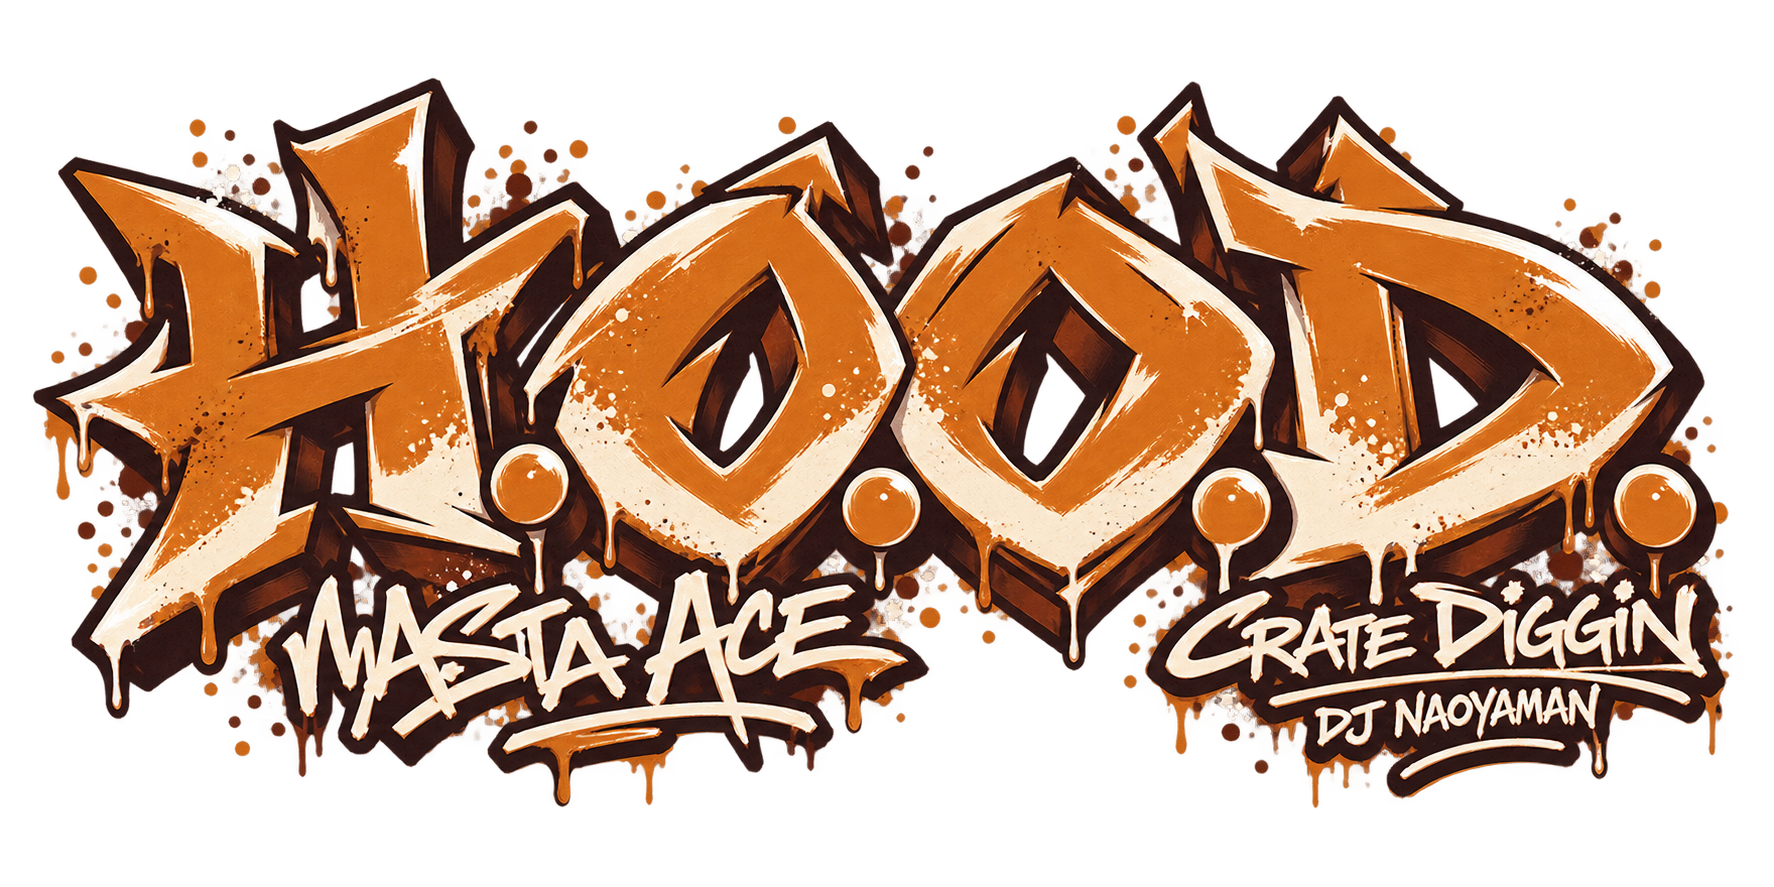
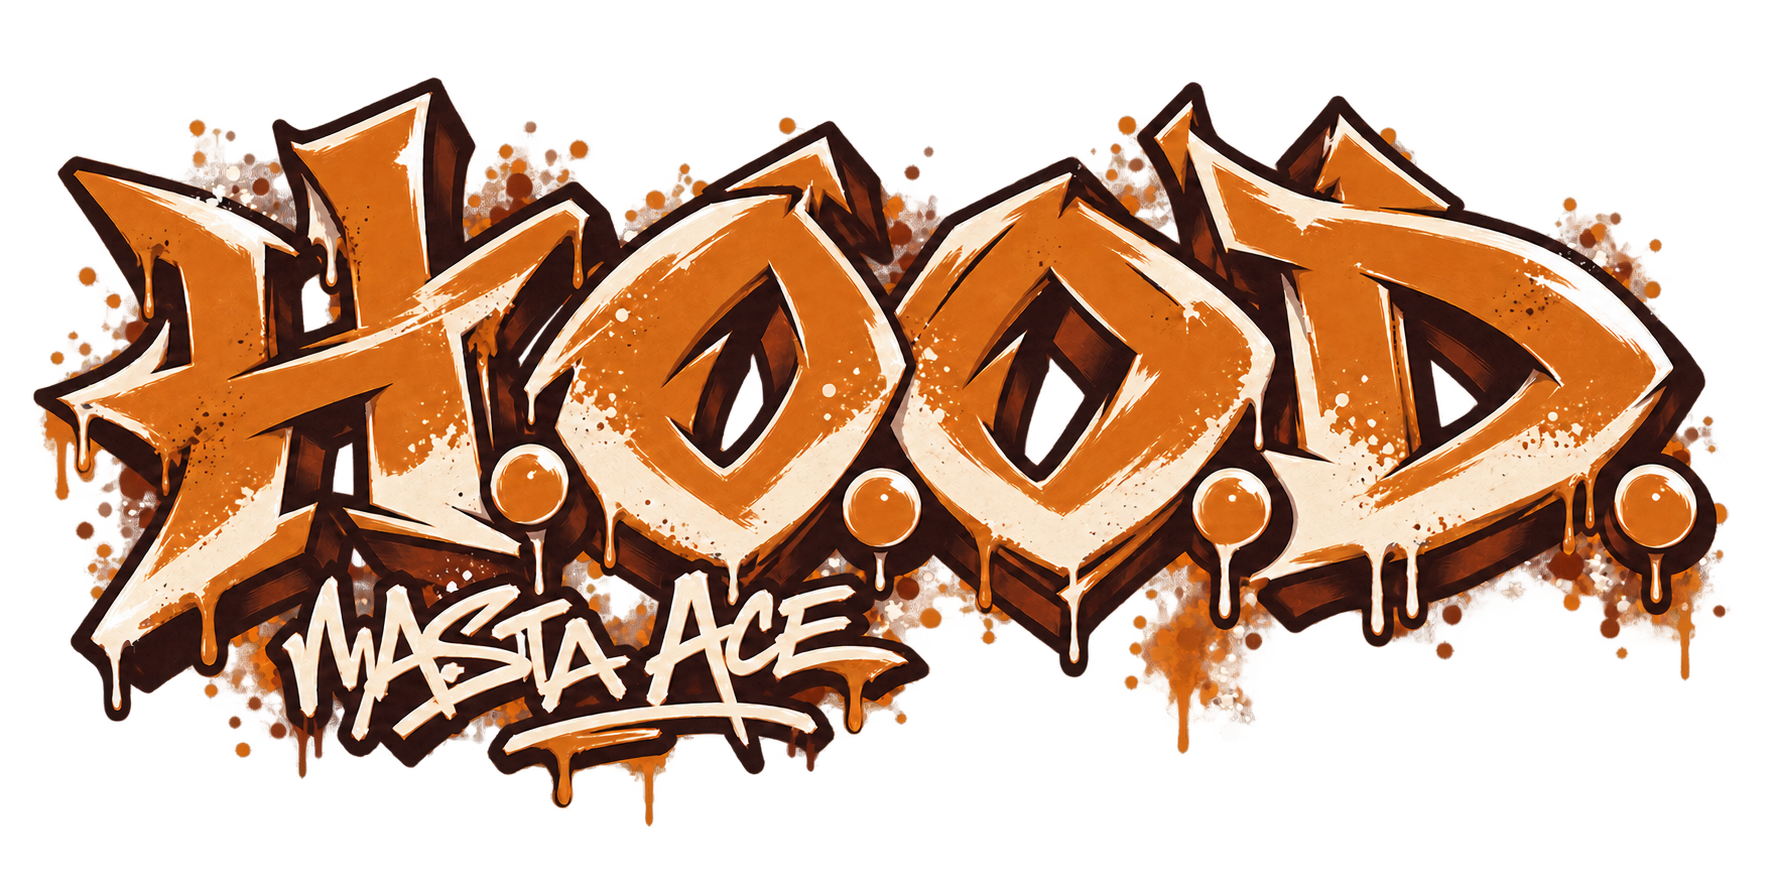
Remove embedded site signature from Masta Ace H.O.O.D. artwork

diff --git a/scripts/verify_masta_ace_art_cleanup.py b/scripts/verify_masta_ace_art_cleanup.py
@@ -1,0 +1,22 @@
+from pathlib import Path
+import hashlib,json,sys
+from PIL import Image
+from approved_masta_ace_art_cleanup import F,historical_masta_ace_art_cleanup_file
+R=Path(__file__).resolve().parents[1];sha=lambda b:hashlib.sha256(b).hexdigest()
+for p,h in F['protected'].items():assert sha((R/p).read_bytes())==h,p
+p=R/F['asset'];assert sha(p.read_bytes())==F['afterAssetSHA256'];assert F['beforeAssetSHA256']!=F['afterAssetSHA256']
+with Image.open(p) as im:
+ im.load();assert im.mode=='RGBA' and list(im.size)==F['dimensions'] and max(im.size)<=2400
+ assert sha(im.tobytes())==F['rgbaSHA256'];assert im.getchannel('A').getextrema()[0]==0
+ assert sum(1 for r,g,b,a in im.getdata() if min(r,g,b)>225 and a>240)>1000,'White paint lost'
+raw=(R/'releases.json').read_bytes();historical_masta_ace_art_cleanup_file('releases.json',raw)
+try:historical_masta_ace_art_cleanup_file('releases.json',raw+b' ')
+except AssertionError:pass
+else:raise AssertionError('Unapproved drift accepted')
+assert historical_masta_ace_art_cleanup_file('unrelated',b'unchanged')==b'unchanged'
+notes=(R/'ARTWORK_NOTES.md').read_text();assert 'プロンプトに明示' in notes and 'ビットマップには' in notes
+if '--source-only' not in sys.argv:
+ D=R/'dist';html=(D/'tracks'/(F['id']+'.html')).read_text();assert F['asset'] in html and 'DJ Naoyaman' in html and 'Original graffiti' in html
+ with Image.open(D/F['asset']) as im:im.load();assert im.mode=='RGBA' and im.getchannel('A').getextrema()[0]==0
+ with Image.open(D/'og'/(F['id']+'.jpg')) as im:im.load();assert im.size==(1200,630)
+print('Masta Ace image-only replacement, white paint/transparency, unchanged507 records and external credit PASS; lettering/removal visually reviewed')

diff --git a/scripts/approved_masta_ace_art_cleanup.py b/scripts/approved_masta_ace_art_cleanup.py
@@ -1,0 +1,10 @@
+"""Only the release version is normalized; approved image is checked separately."""
+from pathlib import Path
+import json,hashlib
+R=Path(__file__).resolve().parents[1]
+F=json.loads((R/'scripts/fixtures/approved-masta-ace-art-cleanup.json').read_text())
+def historical_masta_ace_art_cleanup_file(path,data):
+ if path!='releases.json':return data
+ assert hashlib.sha256(data).hexdigest()==F['afterReleaseSHA256'],'Unapproved artwork-release drift'
+ obj=json.loads(data);obj['version']=F['beforeVersion'];before=(json.dumps(obj,ensure_ascii=False,indent=2)+'\n').encode()
+ assert hashlib.sha256(before).hexdigest()==F['beforeReleaseSHA256'];return before

diff --git a/scripts/approved_bear_witness_region.py b/scripts/approved_bear_witness_region.py
@@ -5,6 +5,8 @@ R=Path(__file__).resolve().parents[1]
 F=json.loads((R/'scripts/fixtures/approved-bear-witness-region.json').read_text())
 sha=lambda b:hashlib.sha256(b).hexdigest()
 def historical_bear_witness_region_file(path,data):
+ from approved_masta_ace_art_cleanup import historical_masta_ace_art_cleanup_file
+ data=historical_masta_ace_art_cleanup_file(path,data)
  c=F['files'].get(path)
  if c is None:return data
  assert sha(data)==c['afterSHA256'],'Unapproved Bear Witness drift: '+path

diff --git a/ARTWORK_NOTES.md b/ARTWORK_NOTES.md
@@ -56,3 +56,7 @@ build.pyとart_motion.pyが、掲載済みのmoods・deck・listening・essay先
 - burstは中心から勢いよく広がる描画、1.2〜1.8秒。
 
 手動調整はtracks.jsonのart.motionへmode・duration・variant・noteを記録する。画像と代替描画の両方に適用し、描画後は完成状態で静止する。動きを減らす設定では最初から完成状態を表示する。次回以降の追加曲にも自動適用する。対象曲数はtracks.jsonを正本とし、現在381曲。
+
+## 楽曲画像内のサイト署名を入れない（2026-10-21）
+
+今後生成・編集する楽曲グラフィティのビットマップには、DJ NAOYAMAN、DJ Naoyaman、CRATE DIGGIN'、CRATE DIGGIN’などのサイト名・制作者署名を入れない。プロンプトに明示し、公開前の画像目視でも混入がないことを確認する。曲名・アーティスト名・必要な版名と白い塗料、透過した余白は保持する。サイト外側のデザインクレジットと既定のalt表記はそのまま残す。ブランドアイコンおよびEDITOR自身の署名画像はこの楽曲画像ルールの対象外。
